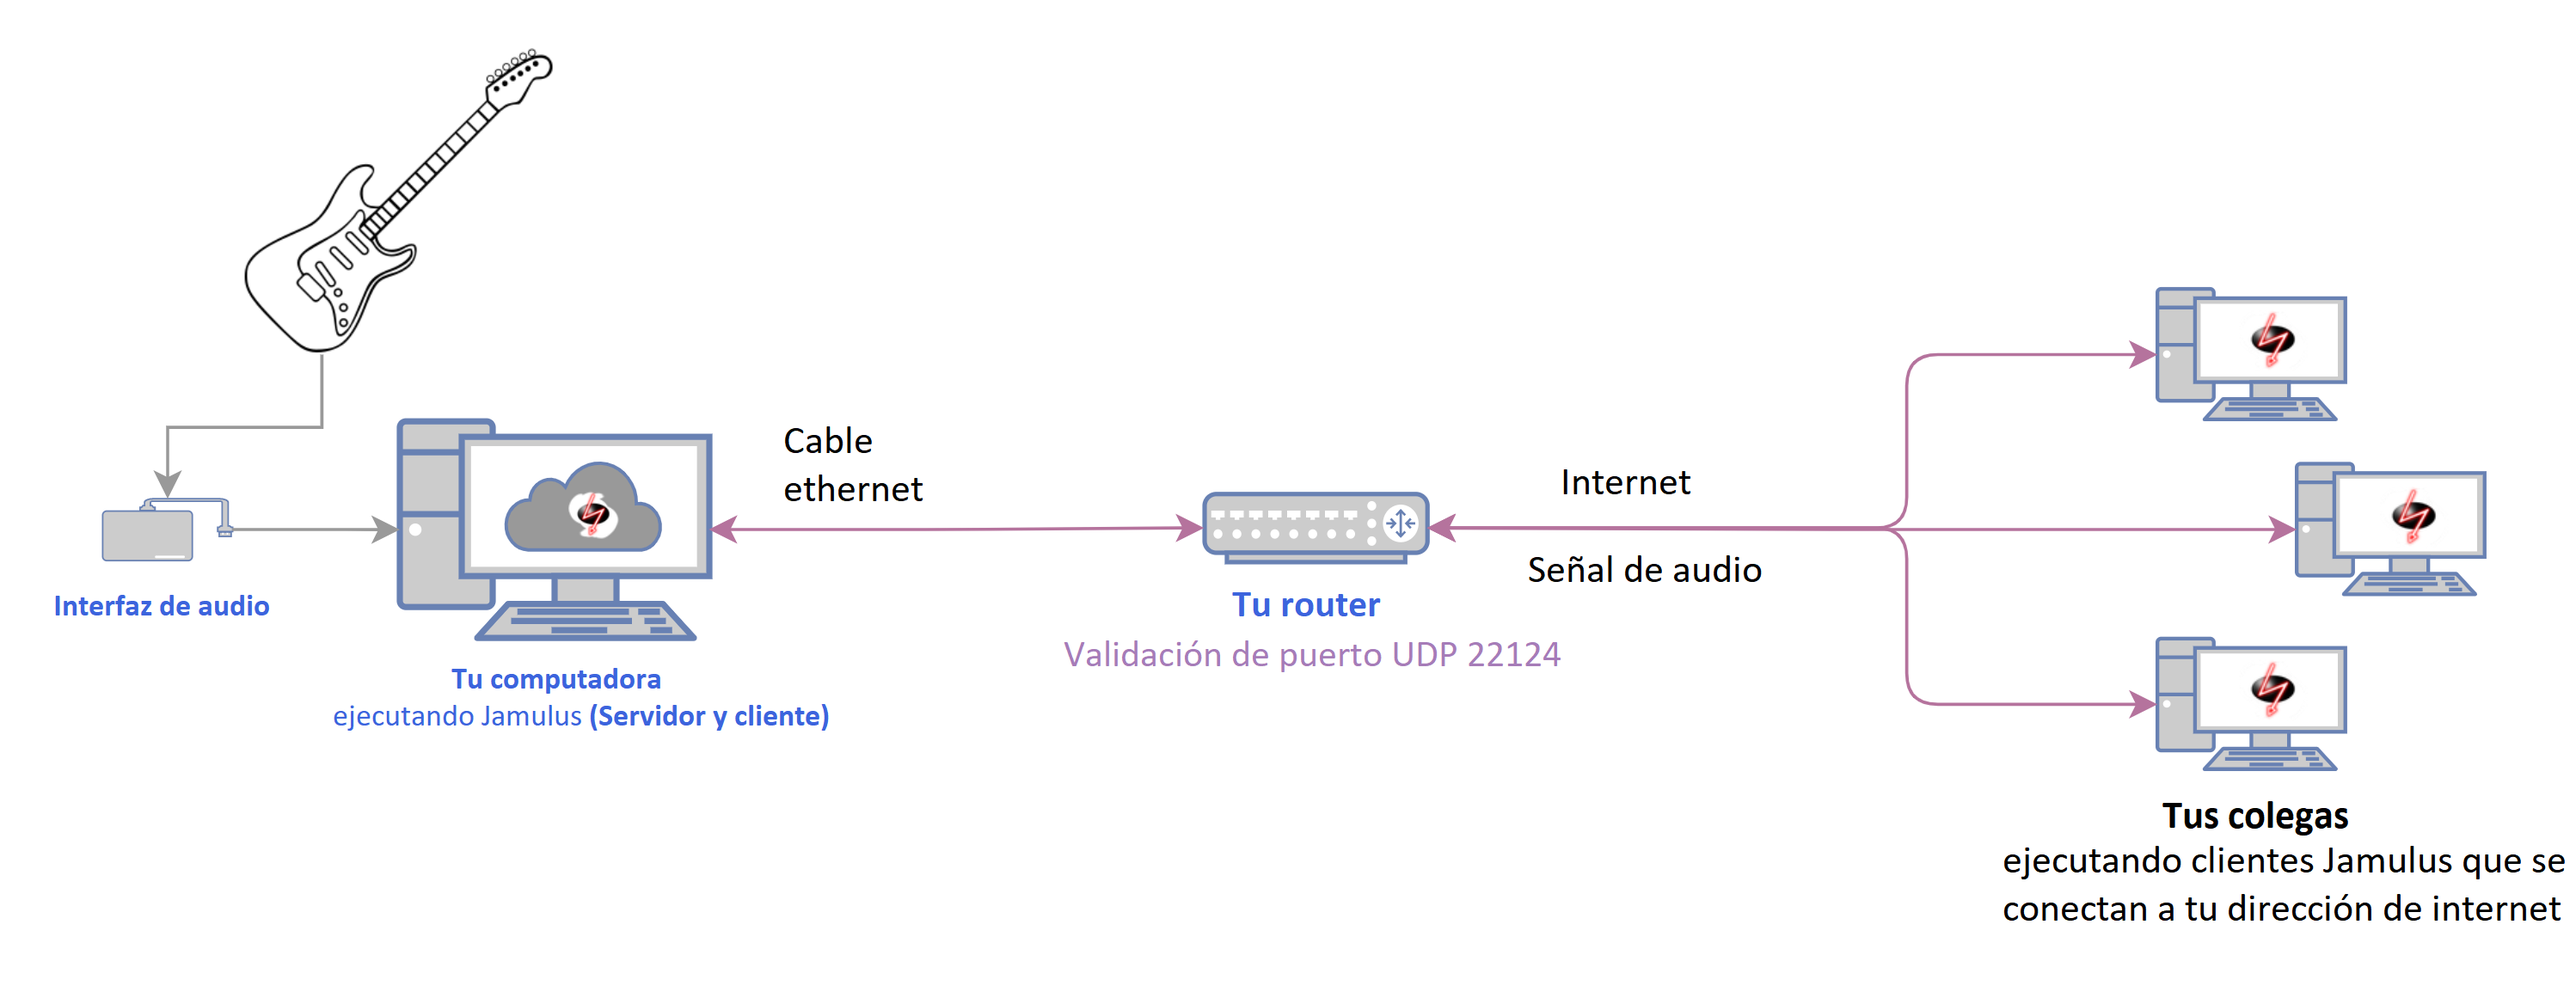
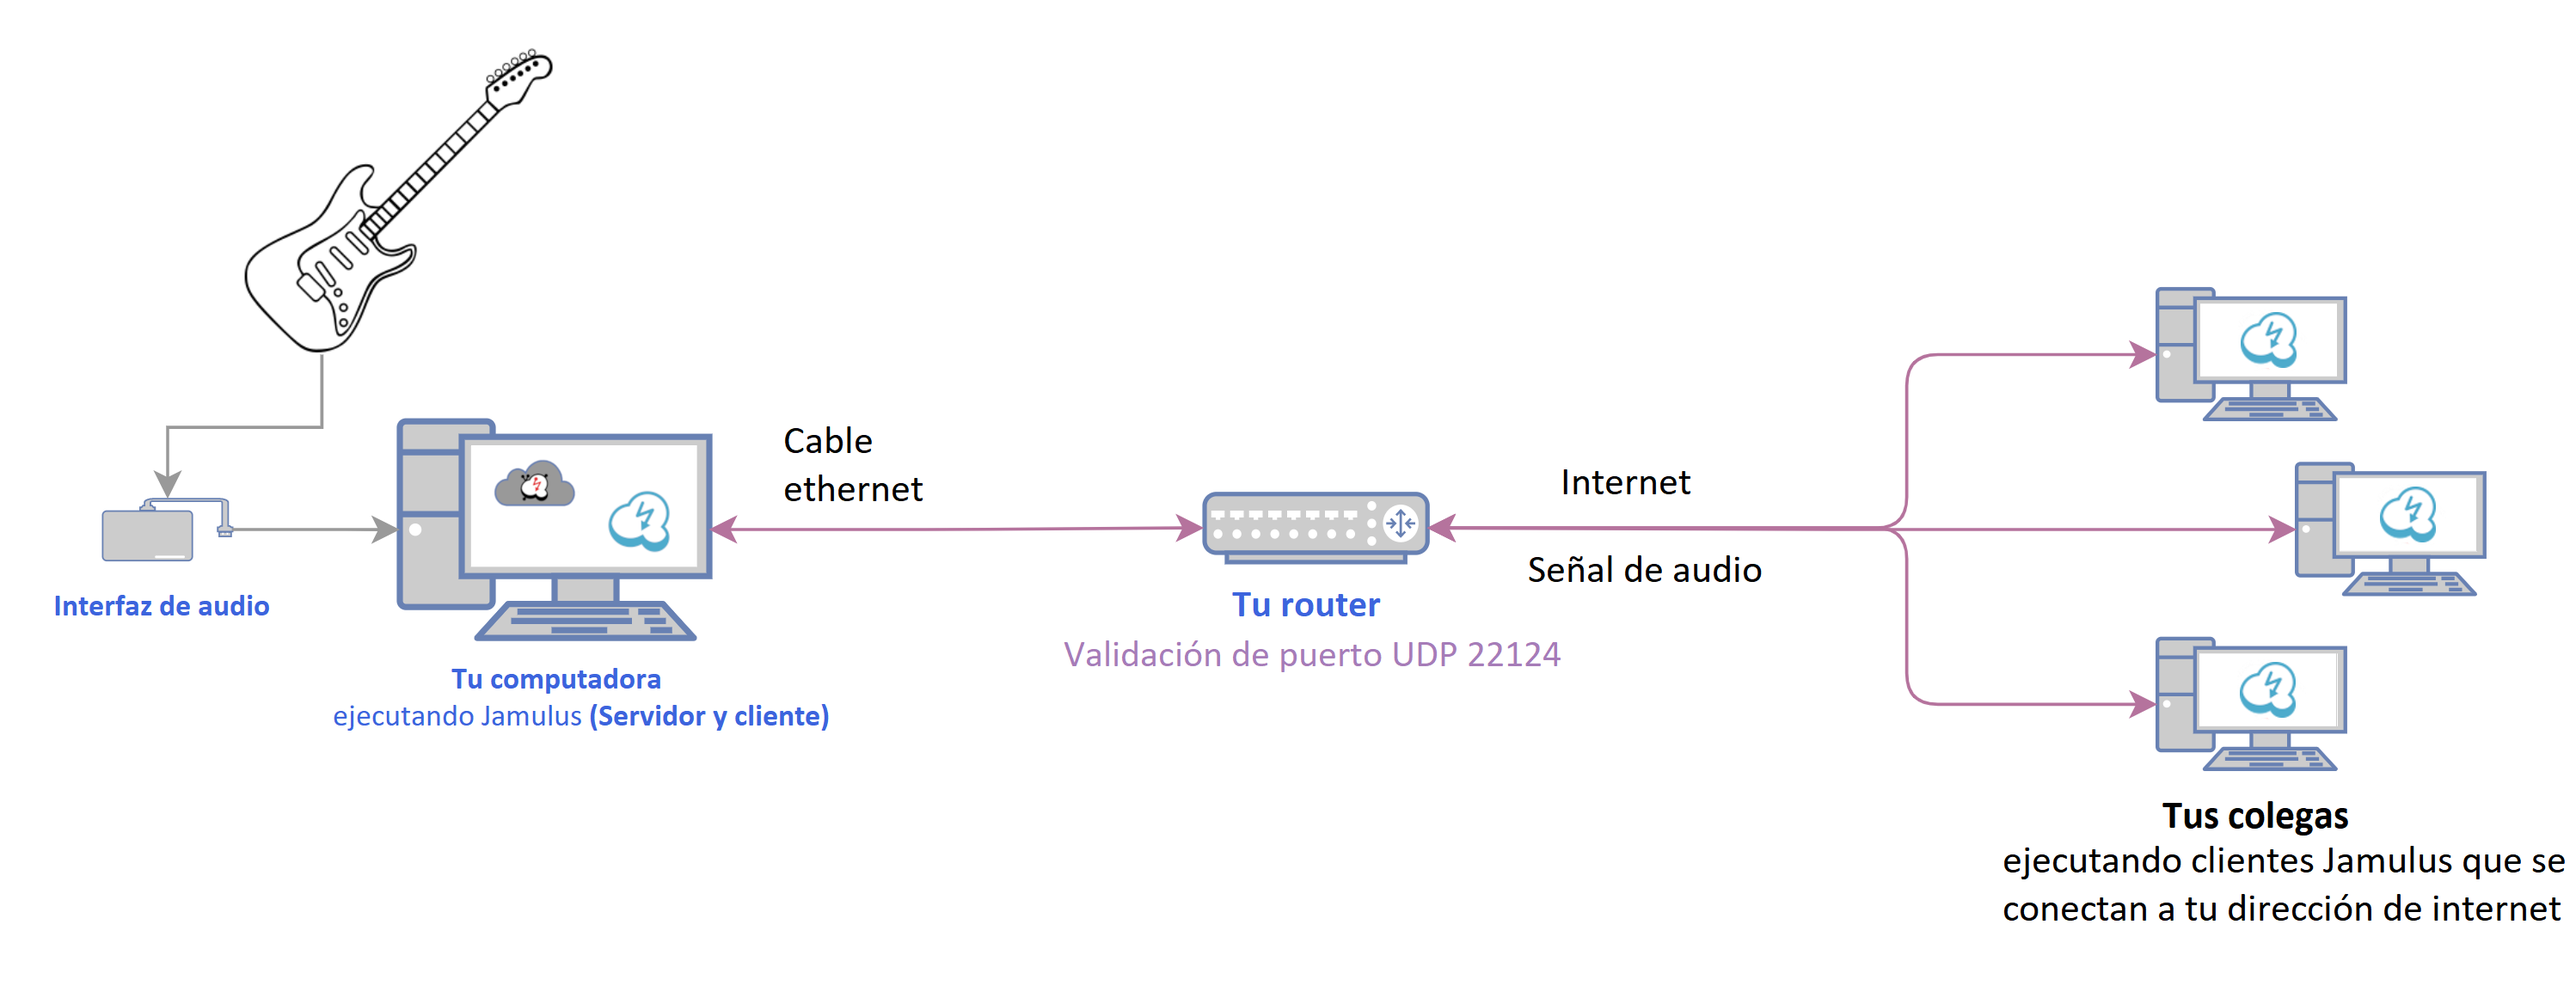
Update diagrams and ES link

diff --git a/wiki/es/Choosing-a-Server-Type.md b/wiki/es/Choosing-a-Server-Type.md
@@ -36,7 +36,7 @@ Ver también [Opciones de Línea de Comandos](Command-Line-Options) para ver otr
 
 Este tipo de servidor no figurará en una lista de servidores de directorios. Debes proporcionar a los músicos la dirección de tu servidor para que puedan conectar sus clientes. Ver también [Ejecutar un Servidor Privado](Running-a-Private-Server) para ver lo necesario para que otros se conecten a él.
 
-<figure><img src="{{site.url}}/assets/img/en-screenshots/diagram-private-server.png" loading="lazy" alt="Diagrama de conexiones entre clientes en un servidor Jamulus privado"></figure>
+<figure><img src="{{site.url}}/assets/img/es-screenshots/diagram-private-server.png" loading="lazy" alt="Diagrama de conexiones entre clientes en un servidor Jamulus privado"></figure>
 
 Este modo se habilita desactivando "Mi Servidor es Público...".
 
